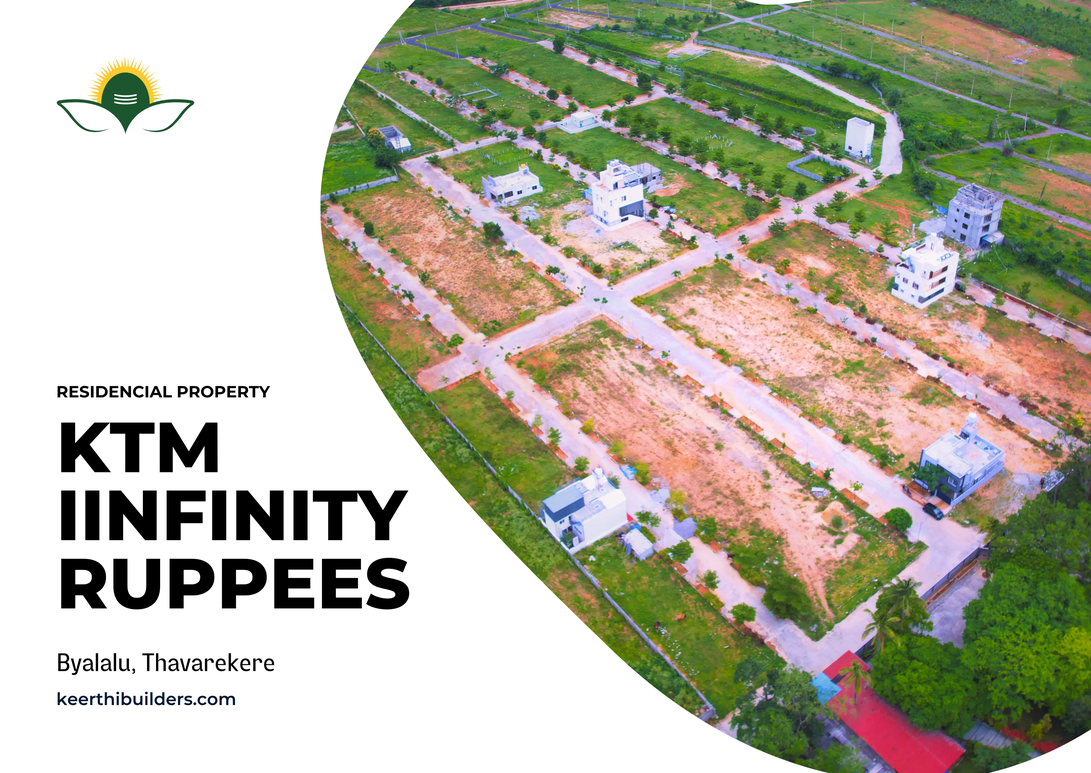
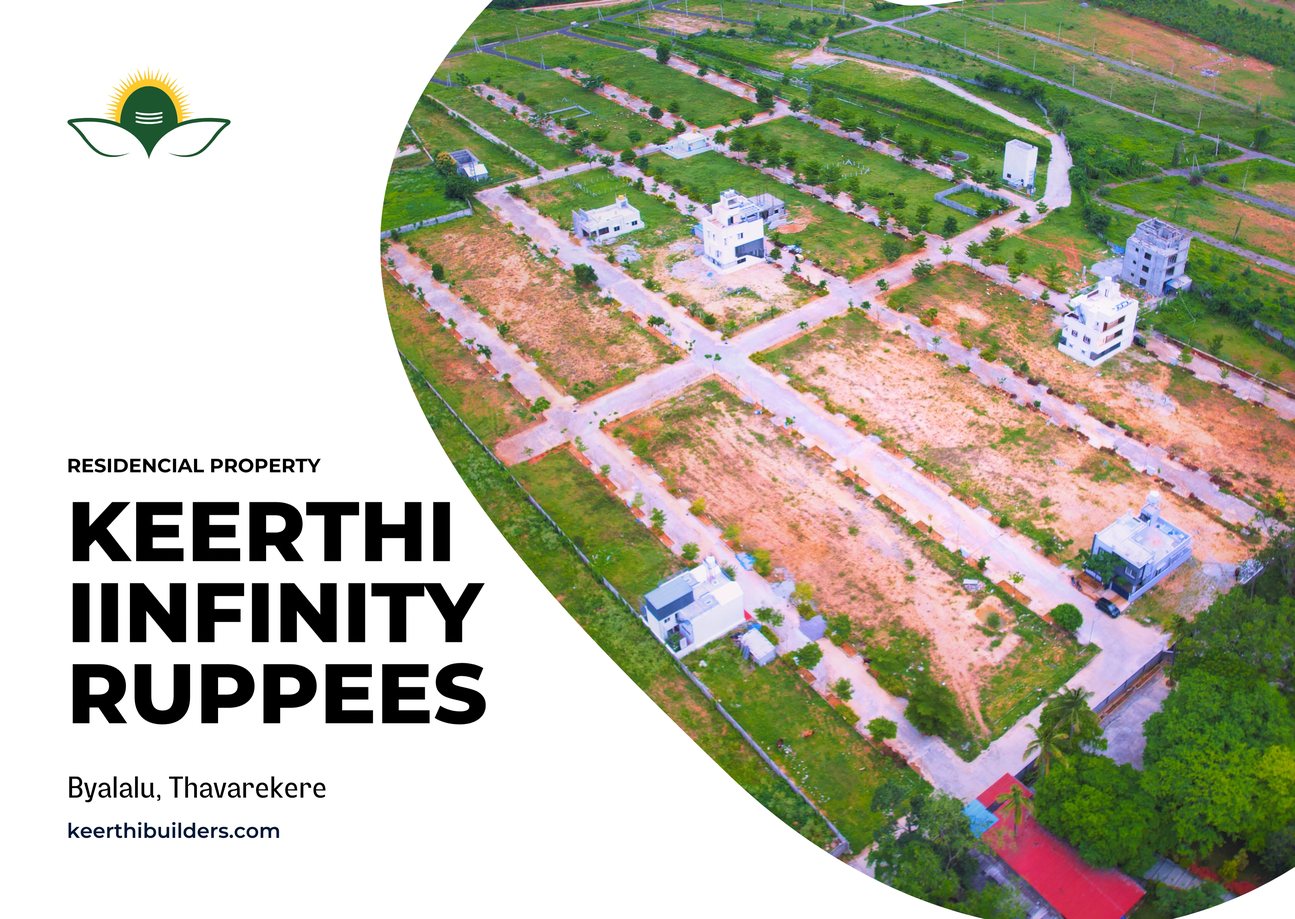
image and added new projects

Changed region(s): [[0.0935, 0.5278, 0.3741, 0.621]]

diff --git a/src/pages/Project/Residential/ResidentialProjects.jsx b/src/pages/Project/Residential/ResidentialProjects.jsx
@@ -8,6 +8,10 @@ import ktmVilla from "../../../../public/assets/images/1.webp"
 import siddeshwara from "../../../../public/assets/images/2.webp"
 import iinfinityUrvi from "../../../../public/assets/images/3.webp"
 import aPSKeerthi from "../../../../public/assets/images/7.webp"
+import iinfinityRuppees from "../../../../public/assets/images/8.webp"
+import iinfinityatr from "../../../../public/assets/images/9.webp"
+import rajajeswari from "../../../../public/assets/images/6.webp"
+
 const ResidentialProjects = () => {
   const ongoingProjects = [
     {
@@ -26,7 +30,7 @@ const ResidentialProjects = () => {
     },
     {
       id: 3,
-      name: "KTM Iinfinity Urvi Phase 2",
+      name: "Keerthi Iinfinity Urvi Phase 2",
       location: "Gollahalli-thittahalli,Kumbalagodu, Bangalore.",
       property: "Residential Property",
       image: keerthiIinfinityUrviPhase2,
@@ -50,16 +54,37 @@ const ResidentialProjects = () => {
     {
       id: 6,
       name: "Siddeshwara Layout",
-      location: "Gollahalli-thittahalli,Kumbalagodu, Bangalore.",
+      location: "Byalalu, Thavarekere",
       property: "Residential Property",
       image: siddeshwara,
     },
     {
       id: 7,
       name: "Keerthi Iinfinity Urvi Phase 1",
-      location: "Gollahalli-thittahalli,Kumbalagodu, Bangalore.",
+      location: "Byalalu, Thavarekere",
       property: "Residential Property",
       image: iinfinityUrvi,
+    },
+{
+      id: 8,
+      name: "Keerthi Iinfinity Ruppees",
+      location: "Byalalu, Thavarekere",
+      property: "Residential Property",
+      image: iinfinityRuppees,
+    },
+{
+      id: 9,
+      name: "ATR Keerthi Iinfinity",
+      location: "Byalalu, Thavarekere",
+      property: "Residential Property",
+      image: iinfinityatr,
+    },
+{
+      id: 10,
+      name: "Jnanakshi Rajajeswari layout",
+      location: "Chikkanahalli, Thavarekere",
+      property: "Residential Property",
+      image: rajajeswari,
     },
   ];
 
